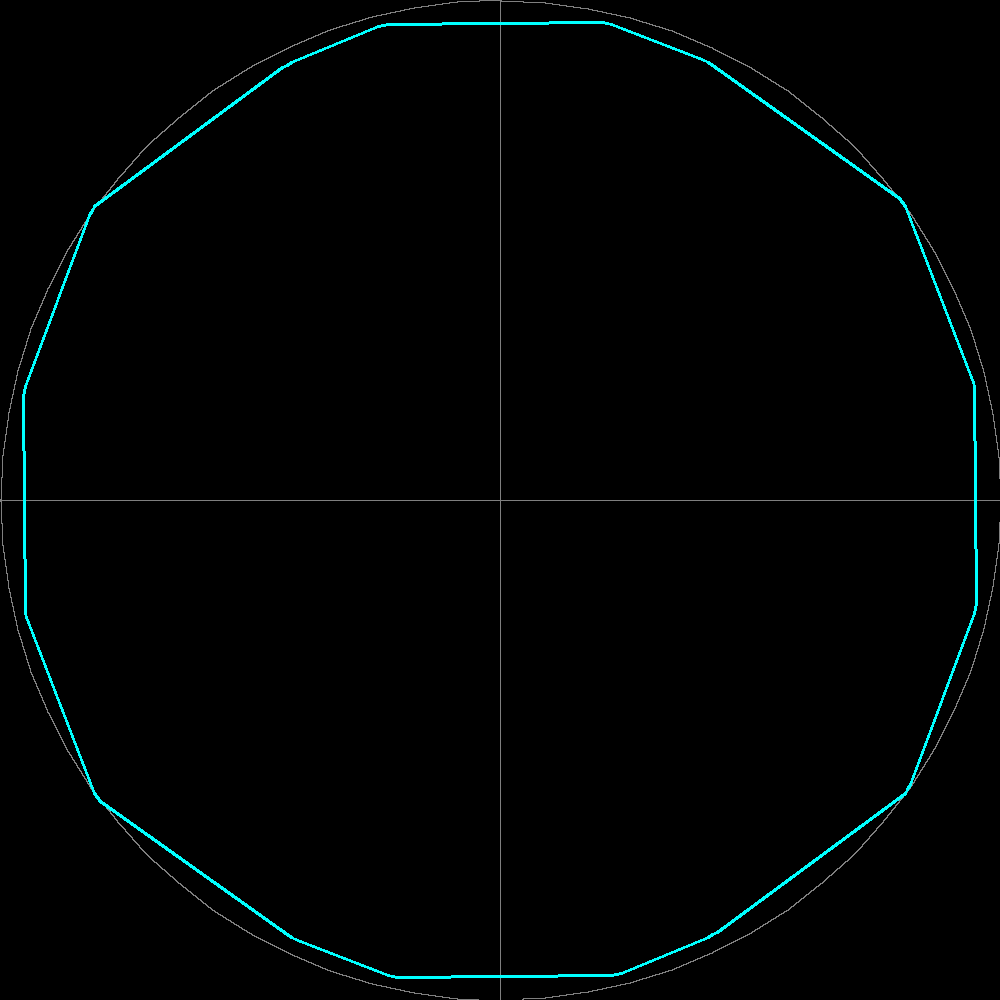
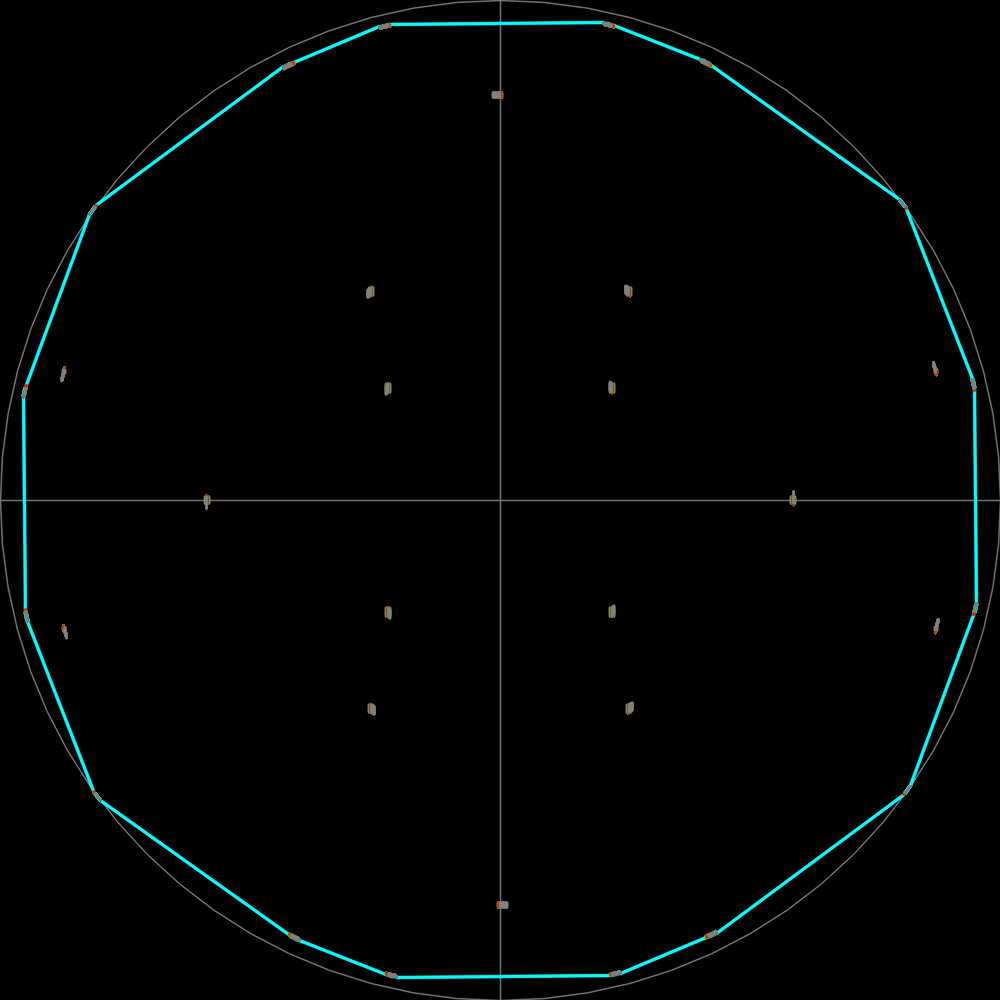
Line alias, refactor, started symbolic check

diff --git a/src/base.hpp b/src/base.hpp
@@ -1,6 +1,10 @@
 #pragma once
 
 #include <opencv2/opencv.hpp>
+#include <boost/geometry.hpp>
+#include <boost/geometry/geometries/polygon.hpp>
+#include <boost/geometry/geometries/adapted/boost_tuple.hpp>
+BOOST_GEOMETRY_REGISTER_BOOST_TUPLE_CS(cs::cartesian)
 
 struct Color {
     inline static const cv::Scalar BLACK = cv::Scalar(0, 0, 0);
@@ -26,6 +30,10 @@ struct Color {
         return color_0 * (1 - t) + color_1 * t;
     }
 };
+
+constexpr double mod(const double angle) {
+    return std::fmod(std::fmod(angle, 2 * M_PI) + 2 * M_PI, 2 * M_PI);
+}
 
 struct Vector2 {
     double x;
@@ -90,16 +98,19 @@ struct Vector2 {
         return x * v.y - y * v.x;
     }
 
-    static std::vector<Vector2> hull(const std::vector<Vector2> &points) {
-        std::vector<cv::Point2f> cv_points;
-        for(const Vector2 &point: points) {
-            cv_points.emplace_back(point.x, point.y);
+    static std::vector<Vector2> convex_hull(const std::vector<Vector2> &points) {
+        namespace bg = boost::geometry;
+        using BoostPoint = boost::tuple<double, double>;
+        using BoostPolygon = bg::model::polygon<BoostPoint>;
+        BoostPolygon input_polygon;
+        for(const auto &[x, y]: points) {
+            bg::append(input_polygon.outer(), BoostPoint(x, y));
         }
-        std::vector<cv::Point2f> cv_hull_points;
-        cv::convexHull(cv_points, cv_hull_points);
+        BoostPolygon hull_polygon;
+        bg::convex_hull(input_polygon, hull_polygon);
         std::vector<Vector2> hull_points;
-        for(const cv::Point2f &cv_hull_point: cv_hull_points) {
-            hull_points.emplace_back(cv_hull_point.x, cv_hull_point.y);
+        for(const auto &hull_point: hull_polygon.outer()) {
+            hull_points.emplace_back(Vector2{bg::get<0>(hull_point), bg::get<1>(hull_point)});
         }
         return hull_points;
     }
@@ -109,7 +120,8 @@ struct Vector2 {
             return 0;
         }
         const double angle = std::atan2(y, x);
-        return angle >= 0 ? angle : angle + 2 * M_PIf;
+        // return angle >= 0 ? angle : angle + 2 * M_PI;
+        return mod(angle);
     }
 
     static std::vector<Vector2> sort(const std::vector<Vector2> &vectors) {
@@ -243,33 +255,122 @@ public:
 struct Interval {
     const double min;
     const double max;
+
+    bool contains(const double value) const {
+        return min <= value && value <= max;
+    }
+
+    bool contains_wrap(const double value, const double wrap) const {
+        if(min <= max) {
+            return min <= value && value <= max;
+        }
+        return min <= value || value <= max;
+    }
 };
 
 struct Box {
-    static double constexpr theta_range = 2 * M_PIf;
-    static double constexpr phi_range = M_PI_2f;
     const Interval theta_interval;
     const Interval phi_interval;
 
     Vector2 center() const {
         return {
-                    (theta_interval.min + theta_interval.max) / 2 / M_PIf - 1,
-                    (phi_interval.min + phi_interval.max) / 2 / M_PI_2f - 1
+                    (theta_interval.min + theta_interval.max) / 2 / M_PI - 1,
+                    (phi_interval.min + phi_interval.max) / 2 / M_PI_2 - 1
                 };
     }
 
     Box normalized() const {
         return {
-                    Interval(theta_interval.min / M_PIf - 1, theta_interval.max / M_PIf - 1),
-                    Interval(phi_interval.min / M_PI_2f - 1, phi_interval.max / M_PI_2f - 1)
+                    Interval(theta_interval.min / M_PI - 1, theta_interval.max / M_PI - 1),
+                    Interval(phi_interval.min / M_PI_2 - 1, phi_interval.max / M_PI_2 - 1)
                 };
     }
 
     cv::Scalar color() const {
-        const double x = (theta_interval.min + theta_interval.max) / 2 / (2 * M_PIf);
-        const double y = (phi_interval.min + phi_interval.max) / 2 / M_PIf;
+        const double x = (theta_interval.min + theta_interval.max) / 2 / (2 * M_PI);
+        const double y = (phi_interval.min + phi_interval.max) / 2 / M_PI;
         return Color::gradient(y,
                                Color::gradient(x, Color::bottom_left, Color::bottom_right),
                                Color::gradient(x, Color::top_left, Color::top_right));
+    }
+
+    std::vector<Vector2> boundary(const Vector3 &vertex, double theta_step, double phi_step) const {
+        const double x = vertex.x;
+        const double y = vertex.y;
+        const double z = vertex.z;
+        const double theta_min = theta_interval.min;
+        const double theta_max = theta_interval.max;
+        const double phi_min = phi_interval.min;
+        const double phi_max = phi_interval.max;
+        theta_step *= theta_max - theta_min;
+        phi_step *= phi_max - phi_min;
+        std::vector<Vector2> points;
+        // theta = theta_min
+        double x_theta_min = -x * std::sin(theta_min) + y * std::cos(theta_min);
+        SineWave y_theta_min = SineWave::combine(-z, x * std::cos(theta_min) + y * std::sin(theta_min));
+        for(double phi = phi_min; phi <= phi_max; phi += phi_step) {
+            points.emplace_back(x_theta_min, y_theta_min(phi));
+        }
+        // phi = phi_max
+        SineWave x_phi_max = SineWave::combine(-x, y);
+        SineWave y_phi_max = SineWave::combine(y * std::cos(phi_max), x * std::cos(phi_max));
+        double y_phi_max_constant = -z * std::sin(phi_max);
+        for(double theta = theta_min; theta <= theta_max; theta += theta_step) {
+            points.emplace_back(x_phi_max(theta), y_phi_max(theta) + y_phi_max_constant);
+        }
+        // theta = theta_max
+        double x_theta_max = -x * std::sin(theta_max) + y * std::cos(theta_max);
+        SineWave y_theta_max = SineWave::combine(-z, x * std::cos(theta_max) + y * std::sin(theta_max));
+        for(double phi = phi_max; phi >= phi_min; phi -= phi_step) {
+            points.emplace_back(x_theta_max, y_theta_max(phi));
+        }
+        // phi = phi_min
+        SineWave x_phi_min = SineWave::combine(-x, y);
+        SineWave y_phi_min = SineWave::combine(y * std::cos(phi_min), x * std::cos(phi_min));
+        double y_phi_min_constant = -z * std::sin(phi_min);
+        for(double theta = theta_max; theta >= theta_min; theta -= theta_step) {
+            points.emplace_back(x_phi_min(theta), y_phi_min(theta) + y_phi_min_constant);
+        }
+        return points;
+    }
+
+    bool intersects(const Vector3 &vertex, const std::vector<Vector2> &polygon) const {
+        std::vector<double> angles;
+        for(const Vector2 &point: polygon) {
+            angles.push_back(point.get_angle());
+        }
+        for(const Vector2 &boundary_point: boundary(vertex, 0.01, 0.01)) {
+            const int index = boundary_point.get_index(angles);
+            if(boundary_point.is_inside(polygon[index], polygon[(index + 1) % polygon.size()])) {
+                return true;
+            }
+        }
+        return false;
+    }
+
+    bool includes_zero(const Vector3 &vertex) const {
+        if(vertex.x == 0 && vertex.y == 0) [[unlikely]] {
+            if(phi_interval.contains(0) || phi_interval.contains(M_PI)) {
+                return true;
+            }
+        }
+        const double theta_0 = Vector2(vertex.x, vertex.y).get_angle();
+        if(theta_interval.contains(theta_0)) {
+            const double c = (vertex.x * std::cos(theta_0) + vertex.y * std::sin(theta_0));
+            const double phi = std::atan2(c, vertex.z);
+            if(phi_interval.contains(phi)) {
+                return true;
+            }
+        }
+        // const double theta_1 = theta_0 < M_PI ? theta_0 + M_PI : theta_0 - M_PI;
+        const double theta_1 = mod(theta_0 + M_PI);
+        if(theta_interval.contains(theta_1)) {
+            const double c = (vertex.x * std::cos(theta_1) + vertex.y * std::sin(theta_1));
+            const double phi = std::atan2(c, vertex.z);
+            if(phi_interval.contains(phi)) {
+                return true;
+            }
+        }
+        return false;
     }
 };

diff --git a/src/boxes.hpp b/src/boxes.hpp
@@ -9,10 +9,10 @@ public:
     Boxes(int theta_intervals, int phi_intervals) {
         for(int theta_i = 0; theta_i < theta_intervals; theta_i++) {
             for(int phi_i = 0; phi_i < phi_intervals; phi_i++) {
-                const double theta_min = 2 * M_PIf * static_cast<double>(theta_i) / static_cast<double>(theta_intervals);
-                const double theta_max = 2 * M_PIf * static_cast<double>(theta_i + 1) / static_cast<double>(theta_intervals);
-                const double phi_min = M_PIf * static_cast<double>(phi_i) / static_cast<double>(phi_intervals);
-                const double phi_max = M_PIf * static_cast<double>(phi_i + 1) / static_cast<double>(phi_intervals);
+                const double theta_min = 2 * M_PI * static_cast<double>(theta_i) / static_cast<double>(theta_intervals);
+                const double theta_max = 2 * M_PI * static_cast<double>(theta_i + 1) / static_cast<double>(theta_intervals);
+                const double phi_min = M_PI * static_cast<double>(phi_i) / static_cast<double>(phi_intervals);
+                const double phi_max = M_PI * static_cast<double>(phi_i + 1) / static_cast<double>(phi_intervals);
                 push(Box{
                         Interval(theta_min, theta_max),
                         Interval(phi_min, phi_max)
@@ -68,45 +68,5 @@ public:
                 Interval(theta_mid, theta_max),
                 Interval(phi_mid, phi_max)
             });
-    }
-
-    static std::vector<Vector2> boundary(const Vector3 &vertex, const Box &box, double theta_step, double phi_step) {
-        const double x = vertex.x;
-        const double y = vertex.y;
-        const double z = vertex.z;
-        const double theta_min = box.theta_interval.min;
-        const double theta_max = box.theta_interval.max;
-        const double phi_min = box.phi_interval.min;
-        const double phi_max = box.phi_interval.max;
-        theta_step *= theta_max - theta_min;
-        phi_step *= phi_max - phi_min;
-        std::vector<Vector2> points;
-        // theta = theta_min
-        double x_theta_min = -x * std::sin(theta_min) + y * std::cos(theta_min);
-        SineWave y_theta_min = SineWave::combine(-z, x * std::cos(theta_min) + y * std::sin(theta_min));
-        for(double phi = phi_min; phi <= phi_max; phi += phi_step) {
-            points.emplace_back(x_theta_min, y_theta_min(phi));
-        }
-        // phi = phi_max
-        SineWave x_phi_max = SineWave::combine(-x, y);
-        SineWave y_phi_max = SineWave::combine(y * std::cos(phi_max), x * std::cos(phi_max));
-        double y_phi_max_constant = -z * std::sin(phi_max);
-        for(double theta = theta_min; theta <= theta_max; theta += theta_step) {
-            points.emplace_back(x_phi_max(theta), y_phi_max(theta) + y_phi_max_constant);
-        }
-        // theta = theta_max
-        double x_theta_max = -x * std::sin(theta_max) + y * std::cos(theta_max);
-        SineWave y_theta_max = SineWave::combine(-z, x * std::cos(theta_max) + y * std::sin(theta_max));
-        for(double phi = phi_max; phi >= phi_min; phi -= phi_step) {
-            points.emplace_back(x_theta_max, y_theta_max(phi));
-        }
-        // phi = phi_min
-        SineWave x_phi_min = SineWave::combine(-x, y);
-        SineWave y_phi_min = SineWave::combine(y * std::cos(phi_min), x * std::cos(phi_min));
-        double y_phi_min_constant = -z * std::sin(phi_min);
-        for(double theta = theta_max; theta >= theta_min; theta -= theta_step) {
-            points.emplace_back(x_phi_min(theta), y_phi_min(theta) + y_phi_min_constant);
-        }
-        return points;
     }
 };

diff --git a/main.cpp b/main.cpp
@@ -12,11 +12,6 @@ std::vector<Vector3> polyhedron = Polyhedron::rhombicosidodecahedron();
 Plot plot_boxes(1000, 1000, 1);
 Boxes boxes(1, 1);
 
-cv::Scalar tr = Color::GREEN;
-cv::Scalar tl = Color::RED;
-cv::Scalar br = Color::YELLOW;
-cv::Scalar bl = Color::BLUE;
-
 void test() {
     test_combined_amplitude_phase();
     test_angle();
@@ -33,23 +28,23 @@ void setup() {
 }
 
 void draw() {
-    Box hole_box(
+    constexpr Box hole_box(
         Interval(0, 0.01),
         Interval(0, 0.01)
     );
-    Interval hole_alpha(0, 0.01);
+    constexpr Interval hole_alpha(0, 0.01);
 
     std::vector<Vector2> hole_all;
-    for(double theta = hole_box.theta_interval.min; theta <= hole_box.theta_interval.max; theta += 0.01) {
-        for(double phi = hole_box.phi_interval.min; phi <= hole_box.phi_interval.max; phi += 0.01) {
-            for(double alpha = hole_alpha.min; alpha <= hole_alpha.max; alpha += 0.01) {
+    for(double alpha = hole_alpha.min; alpha <= hole_alpha.max; alpha += 0.001) {
+        for(double theta = hole_box.theta_interval.min; theta <= hole_box.theta_interval.max; theta += 0.001) {
+            for(double phi = hole_box.phi_interval.min; phi <= hole_box.phi_interval.max; phi += 0.001) {
                 for(const Vector3 &vertex: polyhedron) {
                     hole_all.push_back(vertex.project(theta, phi).rotate(alpha));
                 }
             }
         }
     }
-    std::vector<Vector2> hole = Vector2::sort(Vector2::hull(hole_all));
+    std::vector<Vector2> hole = Vector2::sort(Vector2::convex_hull(hole_all));
     plot_main.polygon(hole, Color::CYAN, 2);
     std::vector<double> hole_angles;
     for(const Vector2 &hole_point: hole) {
@@ -64,15 +59,7 @@ void draw() {
         const Box box = boxes.pop();
         bool is_any_boundary_outside = false;
         for(const Vector3 &vertex: polyhedron) {
-            bool is_any_vertex_inside = false;
-            for(const Vector2 &boundary_point: Boxes::boundary(vertex, box, 0.01, 0.01)) {
-                const int index = boundary_point.get_index(hole_angles);
-                if(boundary_point.is_inside(hole[index], hole[(index + 1) % hole.size()])) {
-                    is_any_vertex_inside = true;
-                    break;
-                }
-            }
-            if(!is_any_vertex_inside) {
+            if(!box.intersects(vertex, hole)) {
                 is_any_boundary_outside = true;
                 break;
             }
@@ -83,14 +70,12 @@ void draw() {
     }
     const auto end = std::chrono::high_resolution_clock::now();
     std::cout << "Time: " << std::chrono::duration_cast<std::chrono::milliseconds>(end - start).count() << "ms" << std::endl;
-    // for(const Box &box: boxes.get_boxes()) {
-    //     for(const Vector3f &vertex: polyhedron) {
-    //         // plot_main.points(Boxes::boundary(vertex, box, 0.01, 0.01), Color::GRAY);
-    //     }
-    // }
     for(const Box &box: boxes.get_boxes()) {
         plot_boxes.circle(box.center(), 0.1, box.color() / 4);
         plot_boxes.filled_box(box.normalized(), box.color());
+        for(const Vector3 &vertex: polyhedron) {
+            plot_main.filled_polygon(box.boundary(vertex, 0.01, 0.01), box.color());
+        }
     }
 }
 

diff --git a/src/plot.hpp b/src/plot.hpp
@@ -24,7 +24,7 @@ public:
     }
 
     void point(const Vector2 &v, const cv::Scalar &color = Color::WHITE, int radius = 0) {
-        cv::circle(image, cv_point(v), radius, color, -1, cv::LINE_4);
+        cv::circle(image, cv_point(v), radius, color, -1, cv::LINE_AA);
     }
 
     void points(const std::vector<Vector2> &vs, const cv::Scalar &color = Color::WHITE, int radius = 0) {
@@ -34,11 +34,11 @@ public:
     }
 
     void line(const Vector2 &v0, const Vector2 &v1, const cv::Scalar &color = Color::WHITE, int thickness = 1) {
-        cv::line(image, cv_point(v0), cv_point(v1), color, thickness, cv::LINE_4);
+        cv::line(image, cv_point(v0), cv_point(v1), color, thickness, cv::LINE_AA);
     }
 
     void circle(const Vector2 &v, double radius, const cv::Scalar &color = Color::WHITE, int thickness = 1) {
-        cv::circle(image, cv_point(v), static_cast<int>(scale * radius), color, thickness, cv::LINE_4);
+        cv::circle(image, cv_point(v), static_cast<int>(scale * radius), color, thickness, cv::LINE_AA);
     }
 
     void polygon(const std::vector<Vector2> &vs, const cv::Scalar &color = Color::WHITE, int thickness = 1) {
@@ -53,7 +53,7 @@ public:
         for(const Vector2 &v: vs) {
             cv_points.push_back(cv_point(v));
         }
-        cv::fillConvexPoly(image, cv_points.data(), static_cast<int>(cv_points.size()), color, cv::LINE_4);
+        cv::fillConvexPoly(image, cv_points.data(), static_cast<int>(cv_points.size()), color, cv::LINE_AA);
     }
 
     void box(const Box &box, const cv::Scalar &color = Color::WHITE, int thickness = 1) {
